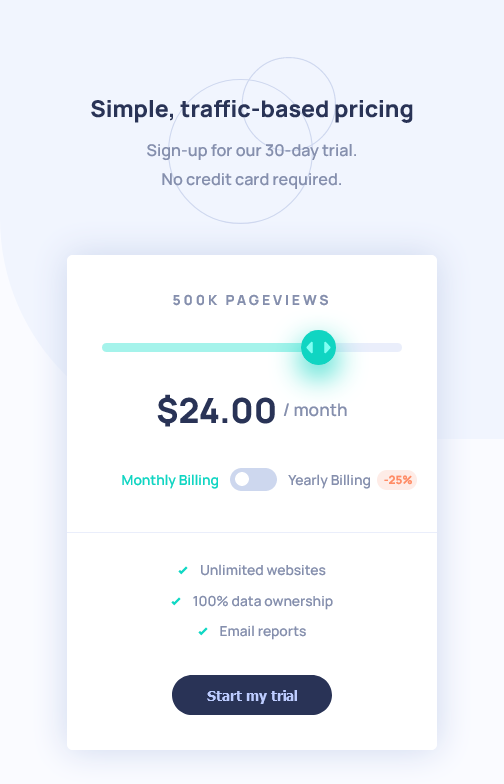
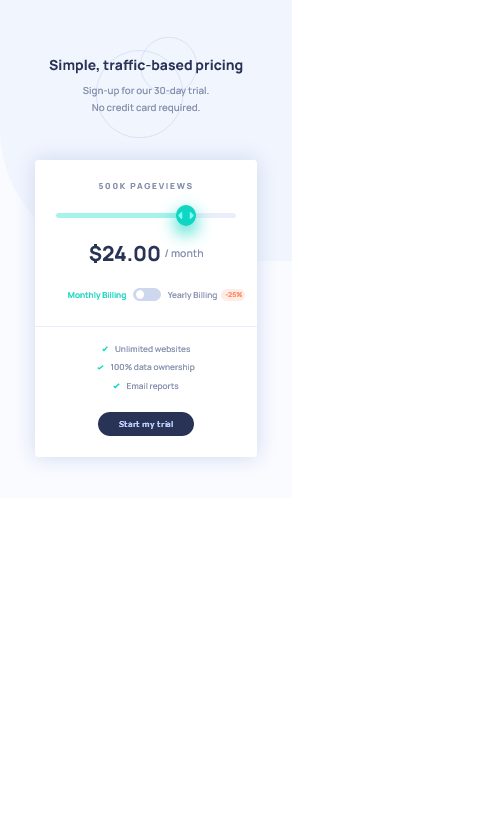
update screenshots

diff --git a/README.md b/README.md
@@ -16,8 +16,6 @@ This is a solution to the [Interactive pricing component challenge on Frontend M
 - [Author](#author)
 - [Acknowledgments](#acknowledgments)
 
-**Note: Delete this note and update the table of contents based on what sections you keep.**
-
 ## Overview
 
 ### The challenge
@@ -31,10 +29,7 @@ Users should be able to:
 ### Screenshot
 
 ![](./images/my-solution_mobile.png)
-
-Add a screenshot of your solution. The easiest way to do this is to use Firefox to view your project, right-click the page and select "Take a Screenshot". You can choose either a full-height screenshot or a cropped one based on how long the page is. If it's very long, it might be best to crop it.
-
-**Note: Delete this note and the paragraphs above when you add your screenshot. If you prefer not to add a screenshot, feel free to remove this entire section.**
+![](.images/my-solution_desktop.png)
 
 ### Links
 
